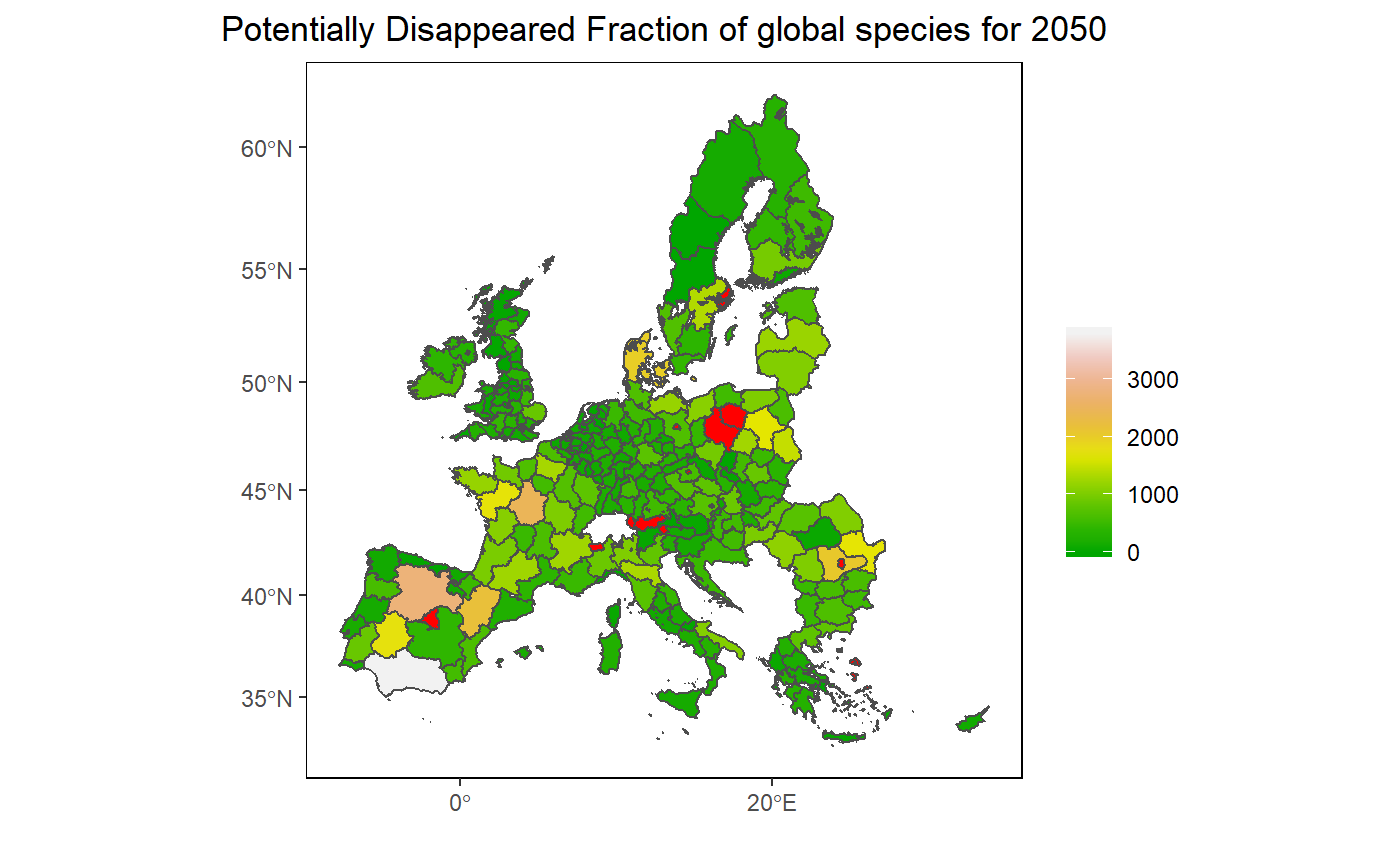
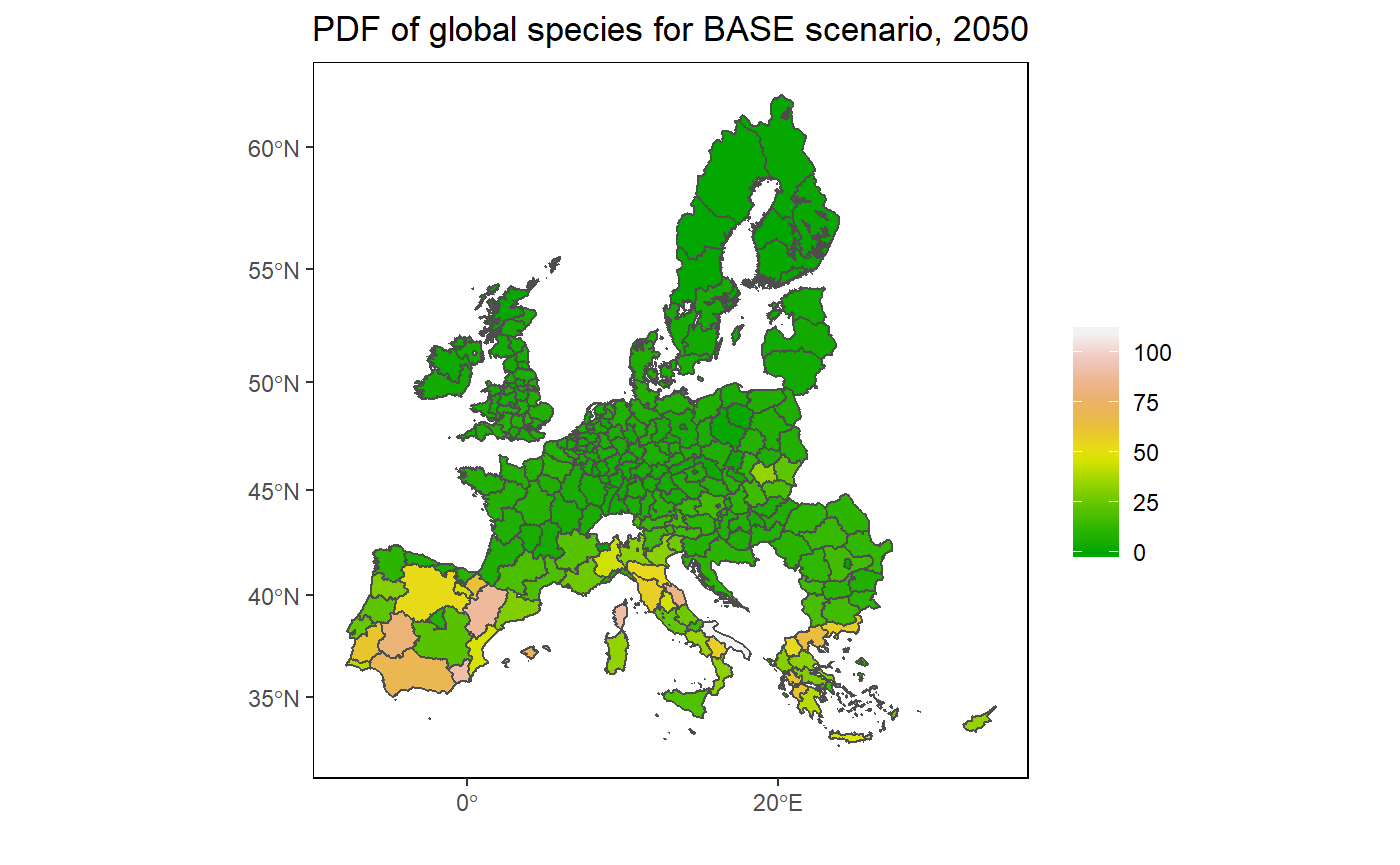
Add eu nuts map including scenarios

diff --git a/docs/articles/rglobiom3.html b/docs/articles/rglobiom3.html
@@ -91,13 +91,13 @@
 <div id="introduction" class="section level2">
 <h2 class="hasAnchor">
 <a href="#introduction" class="anchor"></a>Introduction</h2>
-<p>For some projects we want to create a map of EU NUTS level results produced by GLOBIOM. This vignette provides several examples on how to do this. The EU NUTS map is part of the package and can be loaded using buildin commands (see below). The package also includes data on potentially disappeared fraction of global species (PDF/m2) at the EU Nuts region (<code>eu_nuts_pdf</code>) from <a href="https://www.sciencedirect.com/science/article/pii/S0048969718333941?via%3Dihub">Di Fulvio et al. (2019)</a>, which will be used in the example.</p>
+<p>For some projects we want to create a map of EU NUTS level results produced by GLOBIOM. This vignette provides several examples on how to do this. The EU NUTS map is part of the package and can be loaded using buildin commands (see below). The package also includes data on potentially disappeared fraction of global species (PDF/ha) for three scenarios (2010-2050) at the EU Nuts region (<code>eu_nuts_pdf</code>) from <a href="https://www.sciencedirect.com/science/article/pii/S0048969718333941?via%3Dihub">Di Fulvio et al. (2019)</a>, which will be used in the example.</p>
 </div>
 <div id="preparing-the-data" class="section level2">
 <h2 class="hasAnchor">
 <a href="#preparing-the-data" class="anchor"></a>Preparing the data</h2>
 <p>We use the <a href="https://cran.r-project.org/web/packages/sf/index.html">sf package</a> for most of the vector (e.g. polygon) processing so it needs to be loaded first. The package can be easily combined with <a href="https://cran.r-project.org/web/packages/ggplot2/index.html">ggplot2</a> the core plotting package in R.</p>
-<p>Before we can create the map we need to: (1) load the EU NUTS polygons (part of the package); (2) laod the example data (part of the package) and (3) connect the the two.</p>
+<p>Before we can create the map we need to: (1) load the EU NUTS polygons (part of the package); (2) load the example data (part of the package) and (3) connect the the two.</p>
 <div class="sourceCode" id="cb1"><pre class="sourceCode r"><code class="sourceCode r"><a class="sourceLine" id="cb1-1" title="1"><span class="kw"><a href="https://rdrr.io/r/base/library.html">library</a></span>(rglobiom)</a>
 <a class="sourceLine" id="cb1-2" title="2"><span class="kw"><a href="https://rdrr.io/r/base/library.html">library</a></span>(ggplot2)</a>
 <a class="sourceLine" id="cb1-3" title="3"><span class="kw"><a href="https://rdrr.io/r/base/library.html">library</a></span>(sf)</a>
@@ -105,7 +105,7 @@
 <a class="sourceLine" id="cb1-5" title="5"></a>
 <a class="sourceLine" id="cb1-6" title="6"><span class="co"># Load the EU NUTS polygons</span></a>
 <a class="sourceLine" id="cb1-7" title="7">eu_nuts_poly &lt;-<span class="st"> </span><span class="kw">st_read</span>(<span class="kw"><a href="https://rdrr.io/r/base/system.file.html">system.file</a></span>(<span class="st">"shp"</span>, <span class="st">"NUTS2_revised.shp"</span>, <span class="dt">package =</span> <span class="st">"rglobiom"</span>))</a>
-<a class="sourceLine" id="cb1-8" title="8"><span class="co">#&gt; Reading layer `NUTS2_revised' from data source `c:\Temp\RtmpyE3qUt\temp_libpath47384da44c71\rglobiom\shp\NUTS2_revised.shp' using driver `ESRI Shapefile'</span></a>
+<a class="sourceLine" id="cb1-8" title="8"><span class="co">#&gt; Reading layer `NUTS2_revised' from data source `c:\Temp\Rtmp8CipXn\temp_libpath11dc47354e59\rglobiom\shp\NUTS2_revised.shp' using driver `ESRI Shapefile'</span></a>
 <a class="sourceLine" id="cb1-9" title="9"><span class="co">#&gt; Simple feature collection with 260 features and 8 fields</span></a>
 <a class="sourceLine" id="cb1-10" title="10"><span class="co">#&gt; geometry type:  MULTIPOLYGON</span></a>
 <a class="sourceLine" id="cb1-11" title="11"><span class="co">#&gt; dimension:      XY</span></a>
@@ -117,56 +117,112 @@
 <a class="sourceLine" id="cb1-17" title="17"><span class="kw"><a href="https://rdrr.io/r/base/list2env.html">list2env</a></span>(eu_nuts_pdf ,.GlobalEnv)</a>
 <a class="sourceLine" id="cb1-18" title="18"><span class="co">#&gt; &lt;environment: R_GlobalEnv&gt;</span></a>
 <a class="sourceLine" id="cb1-19" title="19"></a>
-<a class="sourceLine" id="cb1-20" title="20"><span class="co"># Join the data. The variable names in the polygon file and the data file are the same (NUTS2) so they are automatically linked. Note that the order is important because otherwise the polygon format will be lost (do not ask me why).</span></a>
+<a class="sourceLine" id="cb1-20" title="20"><span class="co"># Join the data. The variable names in the polygon file and the data file are the same (NUTS2) so they are automatically linked. Note that the order is important because otherwise the polygon format will be lost.</span></a>
 <a class="sourceLine" id="cb1-21" title="21">eu_nuts &lt;-<span class="st"> </span><span class="kw">left_join</span>(eu_nuts_poly, eu_nuts_pdf)</a></code></pre></div>
 </div>
-<div id="create-a-simple-map-for-one-period-and-one-variable" class="section level2">
+<div id="create-a-map-for-one-year-and-one-scenario" class="section level2">
 <h2 class="hasAnchor">
-<a href="#create-a-simple-map-for-one-period-and-one-variable" class="anchor"></a>Create a simple map for one period and one variable</h2>
-<div class="sourceCode" id="cb2"><pre class="sourceCode r"><code class="sourceCode r"><a class="sourceLine" id="cb2-1" title="1"><span class="co"># Prepare data. We Select only the year 2050</span></a>
-<a class="sourceLine" id="cb2-2" title="2">df &lt;-<span class="st"> </span>eu_nuts <span class="op">%&gt;%</span></a>
-<a class="sourceLine" id="cb2-3" title="3"><span class="st">  </span><span class="kw"><a href="https://rdrr.io/r/stats/filter.html">filter</a></span>(year <span class="op">==</span><span class="st"> </span><span class="dv">2050</span>)</a>
-<a class="sourceLine" id="cb2-4" title="4"></a>
-<a class="sourceLine" id="cb2-5" title="5"><span class="co"># Create the map. Note that we plot the map twice (2xgeom_sf). The first call ensures that the full map is depicted (with background color red). As we used a filter, we removed polygons for which data was not available. The red areas show the polygons for which no example data is available. To remove it use another color (e.g. "grey50") or make it transparent ("transparent"). </span></a>
-<a class="sourceLine" id="cb2-6" title="6"><span class="kw">ggplot</span>() <span class="op">+</span></a>
-<a class="sourceLine" id="cb2-7" title="7"><span class="st">  </span><span class="kw">geom_sf</span>(<span class="dt">data =</span> eu_nuts_poly, <span class="dt">colour =</span> <span class="st">"grey30"</span>, <span class="dt">fill =</span> <span class="st">"red"</span>) <span class="op">+</span></a>
-<a class="sourceLine" id="cb2-8" title="8"><span class="st">  </span><span class="kw">geom_sf</span>(<span class="dt">data =</span> df, <span class="dt">colour =</span> <span class="st">"grey30"</span>, <span class="kw">aes</span>(<span class="dt">fill =</span> value)) <span class="op">+</span></a>
-<a class="sourceLine" id="cb2-9" title="9"><span class="st">  </span><span class="kw">scale_fill_gradientn</span>(<span class="dt">colours =</span> <span class="kw"><a href="https://rdrr.io/r/grDevices/palettes.html">terrain.colors</a></span>(<span class="dv">10</span>)) <span class="op">+</span></a>
-<a class="sourceLine" id="cb2-10" title="10"><span class="st">  </span><span class="kw">labs</span>(<span class="dt">fill =</span> <span class="st">""</span>, <span class="dt">x =</span> <span class="st">""</span>, <span class="dt">y =</span> <span class="st">""</span>, <span class="dt">title =</span> <span class="st">"Potentially Disappeared Fraction of global species for 2050"</span>) <span class="op">+</span></a>
-<a class="sourceLine" id="cb2-11" title="11"><span class="st">  </span><span class="kw">theme</span>(<span class="dt">panel.grid.major =</span> <span class="kw">element_blank</span>(), </a>
-<a class="sourceLine" id="cb2-12" title="12">        <span class="dt">panel.grid.minor =</span> <span class="kw">element_blank</span>(), </a>
-<a class="sourceLine" id="cb2-13" title="13">        <span class="dt">panel.background =</span> <span class="kw">element_blank</span>(),</a>
-<a class="sourceLine" id="cb2-14" title="14">        <span class="dt">panel.border =</span> <span class="kw">element_rect</span>(<span class="dt">colour =</span> <span class="st">"black"</span>, <span class="dt">fill =</span> <span class="st">"transparent"</span>), </a>
-<a class="sourceLine" id="cb2-15" title="15">       <span class="dt">plot.title =</span> <span class="kw">element_text</span>(<span class="dt">hjust =</span> <span class="fl">0.5</span>))</a></code></pre></div>
+<a href="#create-a-map-for-one-year-and-one-scenario" class="anchor"></a>Create a map for one year and one scenario</h2>
+<div class="sourceCode" id="cb2"><pre class="sourceCode r"><code class="sourceCode r"><a class="sourceLine" id="cb2-1" title="1"><span class="co"># Prepare data. We select only the year 2050 and the BASE scenario.</span></a>
+<a class="sourceLine" id="cb2-2" title="2"><span class="co"># We remove NA values, if any.</span></a>
+<a class="sourceLine" id="cb2-3" title="3">df &lt;-<span class="st"> </span>eu_nuts <span class="op">%&gt;%</span></a>
+<a class="sourceLine" id="cb2-4" title="4"><span class="st">  </span><span class="kw"><a href="https://rdrr.io/r/stats/filter.html">filter</a></span>(year <span class="op">==</span><span class="st"> </span><span class="dv">2050</span>, scenario <span class="op">==</span><span class="st"> "BASE"</span>, <span class="op">!</span><span class="kw"><a href="https://rdrr.io/r/base/NA.html">is.na</a></span>(value))</a>
+<a class="sourceLine" id="cb2-5" title="5"></a>
+<a class="sourceLine" id="cb2-6" title="6"><span class="co"># Create the map. Note that we plot the map twice (2xgeom_sf). The first call ensures that the full map is depicted (with background color white). As we used a filter, it is possible we removed polygons for which data was not available, which would otherwise be dropped.</span></a>
+<a class="sourceLine" id="cb2-7" title="7"><span class="kw">ggplot</span>() <span class="op">+</span></a>
+<a class="sourceLine" id="cb2-8" title="8"><span class="st">  </span><span class="kw">geom_sf</span>(<span class="dt">data =</span> eu_nuts_poly, <span class="dt">colour =</span> <span class="st">"grey30"</span>, <span class="dt">fill =</span> <span class="st">"white"</span>) <span class="op">+</span></a>
+<a class="sourceLine" id="cb2-9" title="9"><span class="st">  </span><span class="kw">geom_sf</span>(<span class="dt">data =</span> df, <span class="dt">colour =</span> <span class="st">"grey30"</span>, <span class="kw">aes</span>(<span class="dt">fill =</span> value)) <span class="op">+</span></a>
+<a class="sourceLine" id="cb2-10" title="10"><span class="st">  </span><span class="kw">scale_fill_gradientn</span>(<span class="dt">colours =</span> <span class="kw"><a href="https://rdrr.io/r/grDevices/palettes.html">terrain.colors</a></span>(<span class="dv">10</span>)) <span class="op">+</span></a>
+<a class="sourceLine" id="cb2-11" title="11"><span class="st">  </span><span class="kw">labs</span>(<span class="dt">fill =</span> <span class="st">""</span>, <span class="dt">x =</span> <span class="st">""</span>, <span class="dt">y =</span> <span class="st">""</span>, <span class="dt">title =</span> <span class="st">"PDF of global species for BASE scenario, 2050"</span>) <span class="op">+</span></a>
+<a class="sourceLine" id="cb2-12" title="12"><span class="st">  </span><span class="kw">theme</span>(<span class="dt">panel.grid.major =</span> <span class="kw">element_blank</span>(), </a>
+<a class="sourceLine" id="cb2-13" title="13">        <span class="dt">panel.grid.minor =</span> <span class="kw">element_blank</span>(), </a>
+<a class="sourceLine" id="cb2-14" title="14">        <span class="dt">panel.background =</span> <span class="kw">element_blank</span>(),</a>
+<a class="sourceLine" id="cb2-15" title="15">        <span class="dt">panel.border =</span> <span class="kw">element_rect</span>(<span class="dt">colour =</span> <span class="st">"black"</span>, <span class="dt">fill =</span> <span class="st">"transparent"</span>), </a>
+<a class="sourceLine" id="cb2-16" title="16">       <span class="dt">plot.title =</span> <span class="kw">element_text</span>(<span class="dt">hjust =</span> <span class="fl">0.5</span>))</a></code></pre></div>
 <p><img src="rglobiom3_files/figure-html/unnamed-chunk-3-1.png" width="700"></p>
-</div>
-<div id="create-a-simple-map-for-multiple-periods-and-one-variable" class="section level2">
-<h2 class="hasAnchor">
-<a href="#create-a-simple-map-for-multiple-periods-and-one-variable" class="anchor"></a>Create a simple map for multiple periods and one variable</h2>
-<p>In this example we create multiple maps that show the change in PDF over time and in space. As we are increasing the number of maps, we first ‘simplify’ the polygons to speed up the processing time. The EU NUTS polygon is quite detailed (i.e. capturing complex border patterns), which consume a lot of memory when plotting. This information is not needed for exploratory mapping.</p>
-<div class="sourceCode" id="cb3"><pre class="sourceCode r"><code class="sourceCode r"><a class="sourceLine" id="cb3-1" title="1"></a>
-<a class="sourceLine" id="cb3-2" title="2"><span class="co"># Simplify the map</span></a>
-<a class="sourceLine" id="cb3-3" title="3">eu_nuts_poly_s &lt;-<span class="st"> </span><span class="kw">st_simplify</span>(eu_nuts_poly, <span class="dt">dTolerance =</span> <span class="dv">5000</span>)</a>
-<a class="sourceLine" id="cb3-4" title="4"></a>
-<a class="sourceLine" id="cb3-5" title="5"><span class="co"># Remove NA values</span></a>
-<a class="sourceLine" id="cb3-6" title="6">df2 &lt;-<span class="st"> </span><span class="kw">left_join</span>(eu_nuts_poly_s, eu_nuts_pdf) <span class="op">%&gt;%</span></a>
-<a class="sourceLine" id="cb3-7" title="7"><span class="st">  </span><span class="kw"><a href="https://rdrr.io/r/stats/filter.html">filter</a></span>(<span class="op">!</span><span class="kw"><a href="https://rdrr.io/r/base/NA.html">is.na</a></span>(value))</a>
-<a class="sourceLine" id="cb3-8" title="8"></a>
-<a class="sourceLine" id="cb3-9" title="9"><span class="co"># plot</span></a>
-<a class="sourceLine" id="cb3-10" title="10"><span class="kw">ggplot</span>() <span class="op">+</span></a>
-<a class="sourceLine" id="cb3-11" title="11"><span class="st">  </span><span class="kw">geom_sf</span>(<span class="dt">data =</span> eu_nuts_poly_s, <span class="dt">colour =</span> <span class="st">"grey30"</span>, <span class="dt">fill =</span> <span class="st">"red"</span>) <span class="op">+</span></a>
-<a class="sourceLine" id="cb3-12" title="12"><span class="st">  </span><span class="kw">geom_sf</span>(<span class="dt">data =</span> df2, <span class="dt">colour =</span> <span class="st">"grey30"</span>, <span class="kw">aes</span>(<span class="dt">fill =</span> value)) <span class="op">+</span></a>
-<a class="sourceLine" id="cb3-13" title="13"><span class="st">  </span><span class="kw">scale_fill_gradientn</span>(<span class="dt">colours =</span> <span class="kw"><a href="https://rdrr.io/r/grDevices/palettes.html">terrain.colors</a></span>(<span class="dv">10</span>)) <span class="op">+</span></a>
-<a class="sourceLine" id="cb3-14" title="14"><span class="st">  </span><span class="kw">labs</span>(<span class="dt">fill =</span> <span class="st">""</span>, <span class="dt">x =</span> <span class="st">""</span>, <span class="dt">y =</span> <span class="st">""</span>, <span class="dt">title =</span> <span class="st">"Potentially Disappeared Fraction of global species for 2010-2050"</span>) <span class="op">+</span></a>
-<a class="sourceLine" id="cb3-15" title="15"><span class="st">  </span><span class="kw">facet_wrap</span>(<span class="op">~</span>year) <span class="op">+</span></a>
-<a class="sourceLine" id="cb3-16" title="16"><span class="st">  </span><span class="kw">theme</span>(<span class="dt">panel.grid.major =</span> <span class="kw">element_blank</span>(), </a>
-<a class="sourceLine" id="cb3-17" title="17">        <span class="dt">panel.grid.minor =</span> <span class="kw">element_blank</span>(), </a>
-<a class="sourceLine" id="cb3-18" title="18">        <span class="dt">panel.background =</span> <span class="kw">element_blank</span>(),</a>
-<a class="sourceLine" id="cb3-19" title="19">        <span class="dt">panel.border =</span> <span class="kw">element_rect</span>(<span class="dt">colour =</span> <span class="st">"black"</span>, <span class="dt">fill =</span> <span class="st">"transparent"</span>), </a>
-<a class="sourceLine" id="cb3-20" title="20">        <span class="dt">plot.title =</span> <span class="kw">element_text</span>(<span class="dt">hjust =</span> <span class="fl">0.5</span>),</a>
-<a class="sourceLine" id="cb3-21" title="21">        <span class="dt">strip.background =</span> <span class="kw">element_rect</span>(<span class="dt">fill =</span> <span class="st">"transparent"</span>),</a>
-<a class="sourceLine" id="cb3-22" title="22">        <span class="dt">legend.position =</span> <span class="st">"bottom"</span>)</a></code></pre></div>
+<p>Like in the original figure 2, we add bin the data to better reveal the spatial pattern. I also use a similar color palette as in the original figure.</p>
+<div class="sourceCode" id="cb3"><pre class="sourceCode r"><code class="sourceCode r"><a class="sourceLine" id="cb3-1" title="1"><span class="co"># Create bins</span></a>
+<a class="sourceLine" id="cb3-2" title="2">interval &lt;-<span class="st"> </span><span class="kw"><a href="https://rdrr.io/r/base/c.html">c</a></span>(<span class="dv">0</span>, <span class="fl">1.5</span>, <span class="dv">3</span>, <span class="dv">6</span>, <span class="dv">9</span>, <span class="dv">12</span>, <span class="dv">15</span>, <span class="dv">20</span>, <span class="dv">30</span>, <span class="dv">60</span>, <span class="dv">100</span>, <span class="dv">110</span>)</a>
+<a class="sourceLine" id="cb3-3" title="3"></a>
+<a class="sourceLine" id="cb3-4" title="4"><span class="co"># Create legend labels</span></a>
+<a class="sourceLine" id="cb3-5" title="5">lab &lt;-<span class="st"> </span><span class="kw"><a href="https://rdrr.io/r/base/paste.html">paste</a></span>(interval, interval[<span class="op">-</span><span class="dv">1</span>], <span class="dt">sep =</span> <span class="st">" - "</span>)[<span class="kw"><a href="https://rdrr.io/r/base/c.html">c</a></span>(<span class="dv">1</span><span class="op">:</span><span class="dv">11</span>)]</a>
+<a class="sourceLine" id="cb3-6" title="6"></a>
+<a class="sourceLine" id="cb3-7" title="7"><span class="co"># As the palette has only 9 colors and we need 12, we need to interpolate.</span></a>
+<a class="sourceLine" id="cb3-8" title="8"><span class="kw"><a href="https://rdrr.io/r/base/library.html">library</a></span>(RColorBrewer)</a>
+<a class="sourceLine" id="cb3-9" title="9">n_col =<span class="st"> </span><span class="kw"><a href="https://rdrr.io/r/base/length.html">length</a></span>(interval)</a>
+<a class="sourceLine" id="cb3-10" title="10">getPalette =<span class="st"> </span><span class="kw"><a href="https://rdrr.io/r/grDevices/colorRamp.html">colorRampPalette</a></span>(<span class="kw">brewer.pal</span>(<span class="dv">9</span>, <span class="st">"YlOrBr"</span>))</a>
+<a class="sourceLine" id="cb3-11" title="11"></a>
+<a class="sourceLine" id="cb3-12" title="12"><span class="co"># Add the binned data</span></a>
+<a class="sourceLine" id="cb3-13" title="13">df &lt;-<span class="st"> </span>df <span class="op">%&gt;%</span></a>
+<a class="sourceLine" id="cb3-14" title="14"><span class="st">  </span><span class="kw">mutate</span>(<span class="dt">value2 =</span> <span class="kw"><a href="https://rdrr.io/r/base/cut.html">cut</a></span>(value, interval, <span class="dt">include.lowest =</span> T))</a>
+<a class="sourceLine" id="cb3-15" title="15"></a>
+<a class="sourceLine" id="cb3-16" title="16"><span class="co"># Create the map</span></a>
+<a class="sourceLine" id="cb3-17" title="17"><span class="kw">ggplot</span>() <span class="op">+</span></a>
+<a class="sourceLine" id="cb3-18" title="18"><span class="st">  </span><span class="kw">geom_sf</span>(<span class="dt">data =</span> eu_nuts_poly, <span class="dt">colour =</span> <span class="st">"grey30"</span>, <span class="dt">fill =</span> <span class="st">"transparent"</span>) <span class="op">+</span></a>
+<a class="sourceLine" id="cb3-19" title="19"><span class="st">  </span><span class="kw">geom_sf</span>(<span class="dt">data =</span> df, <span class="dt">colour =</span> <span class="st">"grey30"</span>, <span class="kw">aes</span>(<span class="dt">fill =</span> value2)) <span class="op">+</span></a>
+<a class="sourceLine" id="cb3-20" title="20"><span class="st">  </span><span class="kw">scale_fill_manual</span>(<span class="dt">values =</span> <span class="kw">getPalette</span>(n_col), <span class="dt">labels =</span> lab) <span class="op">+</span></a>
+<a class="sourceLine" id="cb3-21" title="21"><span class="st">  </span><span class="kw">labs</span>(<span class="dt">x =</span> <span class="st">""</span>, <span class="dt">y =</span> <span class="st">""</span>, <span class="dt">fill =</span> <span class="st">"PDF/ha"</span> , <span class="dt">title =</span> <span class="st">"EU nuts abandoned land for 2050"</span>) <span class="op">+</span></a>
+<a class="sourceLine" id="cb3-22" title="22"><span class="st">  </span><span class="kw">theme</span>(<span class="dt">panel.grid.major =</span> <span class="kw">element_blank</span>(), </a>
+<a class="sourceLine" id="cb3-23" title="23">        <span class="dt">panel.grid.minor =</span> <span class="kw">element_blank</span>(), </a>
+<a class="sourceLine" id="cb3-24" title="24">        <span class="dt">panel.background =</span> <span class="kw">element_blank</span>(),</a>
+<a class="sourceLine" id="cb3-25" title="25">        <span class="dt">panel.border =</span> <span class="kw">element_rect</span>(<span class="dt">colour =</span> <span class="st">"black"</span>, <span class="dt">fill =</span> <span class="st">"transparent"</span>), </a>
+<a class="sourceLine" id="cb3-26" title="26">        <span class="dt">plot.title =</span> <span class="kw">element_text</span>(<span class="dt">hjust =</span> <span class="fl">0.5</span>),</a>
+<a class="sourceLine" id="cb3-27" title="27">        <span class="dt">legend.position =</span> <span class="kw"><a href="https://rdrr.io/r/base/c.html">c</a></span>(<span class="fl">0.9</span>, <span class="fl">0.65</span>),</a>
+<a class="sourceLine" id="cb3-28" title="28">        <span class="dt">legend.background =</span> <span class="kw">element_rect</span>(<span class="dt">fill =</span> <span class="st">"transparent"</span>)) </a></code></pre></div>
 <p><img src="rglobiom3_files/figure-html/unnamed-chunk-4-1.png" width="700"></p>
+</div>
+<div id="create-a-set-of-maps-for-multiple-periods-and-one-scenario" class="section level2">
+<h2 class="hasAnchor">
+<a href="#create-a-set-of-maps-for-multiple-periods-and-one-scenario" class="anchor"></a>Create a set of maps for multiple periods and one scenario</h2>
+<p>In this example we create multiple maps that show the change in PDF/ha over time and in space. As we are increasing the number of maps, we first ‘simplify’ the polygons to speed up the processing time. To simplify further (and speed up), increase the <code>dTolerance</code> parameter. The EU NUTS polygon is quite detailed (i.e. capturing complex border patterns), which consume a lot of memory when plotting. This information is not needed for exploratory mapping.</p>
+<div class="sourceCode" id="cb4"><pre class="sourceCode r"><code class="sourceCode r"><a class="sourceLine" id="cb4-1" title="1"></a>
+<a class="sourceLine" id="cb4-2" title="2"><span class="co"># Simplify the map</span></a>
+<a class="sourceLine" id="cb4-3" title="3">eu_nuts_poly_s &lt;-<span class="st"> </span><span class="kw">st_simplify</span>(eu_nuts_poly, <span class="dt">dTolerance =</span> <span class="dv">5000</span>)</a>
+<a class="sourceLine" id="cb4-4" title="4"></a>
+<a class="sourceLine" id="cb4-5" title="5"><span class="co"># Select the BASE scenario</span></a>
+<a class="sourceLine" id="cb4-6" title="6">df2 &lt;-<span class="st"> </span><span class="kw">left_join</span>(eu_nuts_poly_s, eu_nuts_pdf) <span class="op">%&gt;%</span></a>
+<a class="sourceLine" id="cb4-7" title="7"><span class="st">  </span><span class="kw"><a href="https://rdrr.io/r/stats/filter.html">filter</a></span>(scenario <span class="op">==</span><span class="st"> "BASE"</span> , <span class="op">!</span><span class="kw"><a href="https://rdrr.io/r/base/NA.html">is.na</a></span>(value))</a>
+<a class="sourceLine" id="cb4-8" title="8"></a>
+<a class="sourceLine" id="cb4-9" title="9"><span class="co"># plot</span></a>
+<a class="sourceLine" id="cb4-10" title="10"><span class="kw">ggplot</span>() <span class="op">+</span></a>
+<a class="sourceLine" id="cb4-11" title="11"><span class="st">  </span><span class="kw">geom_sf</span>(<span class="dt">data =</span> eu_nuts_poly_s, <span class="dt">colour =</span> <span class="st">"grey30"</span>, <span class="dt">fill =</span> <span class="st">"red"</span>) <span class="op">+</span></a>
+<a class="sourceLine" id="cb4-12" title="12"><span class="st">  </span><span class="kw">geom_sf</span>(<span class="dt">data =</span> df2, <span class="dt">colour =</span> <span class="st">"grey30"</span>, <span class="kw">aes</span>(<span class="dt">fill =</span> value)) <span class="op">+</span></a>
+<a class="sourceLine" id="cb4-13" title="13"><span class="st">  </span><span class="kw">scale_fill_gradientn</span>(<span class="dt">colours =</span> <span class="kw"><a href="https://rdrr.io/r/grDevices/palettes.html">terrain.colors</a></span>(<span class="dv">10</span>)) <span class="op">+</span></a>
+<a class="sourceLine" id="cb4-14" title="14"><span class="st">  </span><span class="kw">labs</span>(<span class="dt">fill =</span> <span class="st">""</span>, <span class="dt">x =</span> <span class="st">""</span>, <span class="dt">y =</span> <span class="st">""</span>, <span class="dt">title =</span> <span class="st">"PDF/ha of global species for 2010-2050"</span>) <span class="op">+</span></a>
+<a class="sourceLine" id="cb4-15" title="15"><span class="st">  </span><span class="kw">facet_wrap</span>(<span class="op">~</span>year) <span class="op">+</span></a>
+<a class="sourceLine" id="cb4-16" title="16"><span class="st">  </span><span class="kw">theme</span>(<span class="dt">panel.grid.major =</span> <span class="kw">element_blank</span>(), </a>
+<a class="sourceLine" id="cb4-17" title="17">        <span class="dt">panel.grid.minor =</span> <span class="kw">element_blank</span>(), </a>
+<a class="sourceLine" id="cb4-18" title="18">        <span class="dt">panel.background =</span> <span class="kw">element_blank</span>(),</a>
+<a class="sourceLine" id="cb4-19" title="19">        <span class="dt">panel.border =</span> <span class="kw">element_rect</span>(<span class="dt">colour =</span> <span class="st">"black"</span>, <span class="dt">fill =</span> <span class="st">"transparent"</span>), </a>
+<a class="sourceLine" id="cb4-20" title="20">        <span class="dt">plot.title =</span> <span class="kw">element_text</span>(<span class="dt">hjust =</span> <span class="fl">0.5</span>),</a>
+<a class="sourceLine" id="cb4-21" title="21">        <span class="dt">strip.background =</span> <span class="kw">element_rect</span>(<span class="dt">fill =</span> <span class="st">"transparent"</span>),</a>
+<a class="sourceLine" id="cb4-22" title="22">        <span class="dt">legend.position =</span> <span class="st">"bottom"</span>)</a></code></pre></div>
+<p><img src="rglobiom3_files/figure-html/unnamed-chunk-5-1.png" width="700"></p>
+</div>
+<div id="create-a-map-for-multiple-periods-and-multiple-scenarios" class="section level2">
+<h2 class="hasAnchor">
+<a href="#create-a-map-for-multiple-periods-and-multiple-scenarios" class="anchor"></a>Create a map for multiple periods and multiple scenarios</h2>
+<p>Now we show all maps covering both the time and scenario dimension. As the maps are very small, this is probably only useful if there are large differences over time and space that can be easily spotted.</p>
+<div class="sourceCode" id="cb5"><pre class="sourceCode r"><code class="sourceCode r"><a class="sourceLine" id="cb5-1" title="1"></a>
+<a class="sourceLine" id="cb5-2" title="2"><span class="co"># Remove NA values</span></a>
+<a class="sourceLine" id="cb5-3" title="3">df2 &lt;-<span class="st"> </span><span class="kw">left_join</span>(eu_nuts_poly_s, eu_nuts_pdf) <span class="op">%&gt;%</span></a>
+<a class="sourceLine" id="cb5-4" title="4"><span class="st">  </span><span class="kw"><a href="https://rdrr.io/r/stats/filter.html">filter</a></span>(<span class="op">!</span><span class="kw"><a href="https://rdrr.io/r/base/NA.html">is.na</a></span>(value))</a>
+<a class="sourceLine" id="cb5-5" title="5"></a>
+<a class="sourceLine" id="cb5-6" title="6"><span class="co"># plot</span></a>
+<a class="sourceLine" id="cb5-7" title="7"><span class="kw">ggplot</span>() <span class="op">+</span></a>
+<a class="sourceLine" id="cb5-8" title="8"><span class="st">  </span><span class="kw">geom_sf</span>(<span class="dt">data =</span> eu_nuts_poly_s, <span class="dt">colour =</span> <span class="st">"grey30"</span>, <span class="dt">fill =</span> <span class="st">"red"</span>) <span class="op">+</span></a>
+<a class="sourceLine" id="cb5-9" title="9"><span class="st">  </span><span class="kw">geom_sf</span>(<span class="dt">data =</span> df2, <span class="dt">colour =</span> <span class="st">"grey30"</span>, <span class="kw">aes</span>(<span class="dt">fill =</span> value)) <span class="op">+</span></a>
+<a class="sourceLine" id="cb5-10" title="10"><span class="st">  </span><span class="kw">scale_fill_gradientn</span>(<span class="dt">colours =</span> <span class="kw"><a href="https://rdrr.io/r/grDevices/palettes.html">terrain.colors</a></span>(<span class="dv">10</span>)) <span class="op">+</span></a>
+<a class="sourceLine" id="cb5-11" title="11"><span class="st">  </span><span class="kw">labs</span>(<span class="dt">fill =</span> <span class="st">""</span>, <span class="dt">x =</span> <span class="st">""</span>, <span class="dt">y =</span> <span class="st">""</span>, <span class="dt">title =</span> <span class="st">"PDF/ha of global species for 2010-2050"</span>) <span class="op">+</span></a>
+<a class="sourceLine" id="cb5-12" title="12"><span class="st">  </span><span class="kw">facet_grid</span>(scenario<span class="op">~</span><span class="st"> </span>year) <span class="op">+</span></a>
+<a class="sourceLine" id="cb5-13" title="13"><span class="st">  </span><span class="kw">theme</span>(<span class="dt">panel.grid.major =</span> <span class="kw">element_blank</span>(), </a>
+<a class="sourceLine" id="cb5-14" title="14">        <span class="dt">panel.grid.minor =</span> <span class="kw">element_blank</span>(), </a>
+<a class="sourceLine" id="cb5-15" title="15">        <span class="dt">panel.background =</span> <span class="kw">element_blank</span>(),</a>
+<a class="sourceLine" id="cb5-16" title="16">        <span class="dt">panel.border =</span> <span class="kw">element_rect</span>(<span class="dt">colour =</span> <span class="st">"black"</span>, <span class="dt">fill =</span> <span class="st">"transparent"</span>), </a>
+<a class="sourceLine" id="cb5-17" title="17">        <span class="dt">plot.title =</span> <span class="kw">element_text</span>(<span class="dt">hjust =</span> <span class="fl">0.5</span>),</a>
+<a class="sourceLine" id="cb5-18" title="18">        <span class="dt">strip.background =</span> <span class="kw">element_rect</span>(<span class="dt">fill =</span> <span class="st">"transparent"</span>),</a>
+<a class="sourceLine" id="cb5-19" title="19">        <span class="dt">legend.position =</span> <span class="st">"bottom"</span>)</a></code></pre></div>
+<p><img src="rglobiom3_files/figure-html/unnamed-chunk-6-1.png" width="700"></p>
 </div>
   </div>
 
@@ -177,8 +233,9 @@
       <ul class="nav nav-pills nav-stacked">
 <li><a href="#introduction">Introduction</a></li>
       <li><a href="#preparing-the-data">Preparing the data</a></li>
-      <li><a href="#create-a-simple-map-for-one-period-and-one-variable">Create a simple map for one period and one variable</a></li>
-      <li><a href="#create-a-simple-map-for-multiple-periods-and-one-variable">Create a simple map for multiple periods and one variable</a></li>
+      <li><a href="#create-a-map-for-one-year-and-one-scenario">Create a map for one year and one scenario</a></li>
+      <li><a href="#create-a-set-of-maps-for-multiple-periods-and-one-scenario">Create a set of maps for multiple periods and one scenario</a></li>
+      <li><a href="#create-a-map-for-multiple-periods-and-multiple-scenarios">Create a map for multiple periods and multiple scenarios</a></li>
       </ul>
 </div>
       </div>

diff --git a/docs/reference/eu_nuts_pdf.html b/docs/reference/eu_nuts_pdf.html
@@ -35,7 +35,7 @@
 <meta property="og:title" content="Potentially Disappeared Fraction of global species at EU NUTS level. — eu_nuts_pdf" />
 
 <meta property="og:description" content="A dataset containing a measure of Potentially Disappeared Fraction of
-global species at EU NUTS level from Di Fulvio (2019)." />
+global species per ha at EU NUTS level from Di Fulvio (2019)." />
 <meta name="twitter:card" content="summary" />
 
 
@@ -125,7 +125,7 @@ global species at EU NUTS level from Di Fulvio (2019)." />
     <div class="ref-description">
     
     <p>A dataset containing a measure of Potentially Disappeared Fraction of
-global species at EU NUTS level from Di Fulvio (2019).</p>
+global species per ha at EU NUTS level from Di Fulvio (2019).</p>
     
     </div>
 
@@ -135,8 +135,9 @@ global species at EU NUTS level from Di Fulvio (2019).</p>
 
     <p>A data frame with 1476 rows and 3 variables:</p><dl class='dl-horizontal'>
   <dt>NUTS2</dt><dd><p>NUTS2 ID</p></dd>
+  <dt>scenario</dt><dd><p>three scenario runs</p></dd>
   <dt>year</dt><dd><p>year</p></dd>
-  <dt>value</dt><dd><p>PDF</p></dd>
+  <dt>value</dt><dd><p>PDF/ha</p></dd>
 
 
 </dl>
